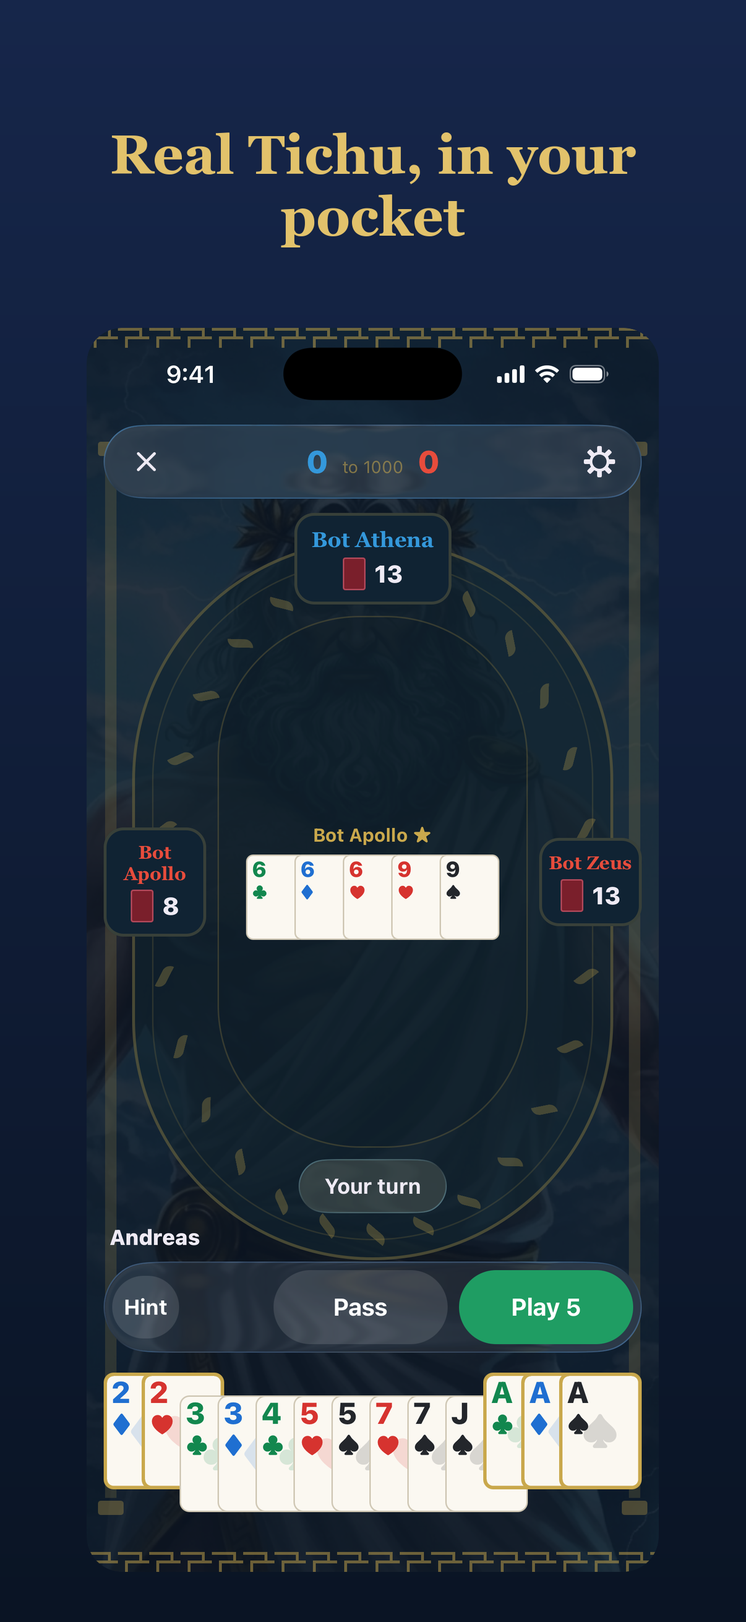
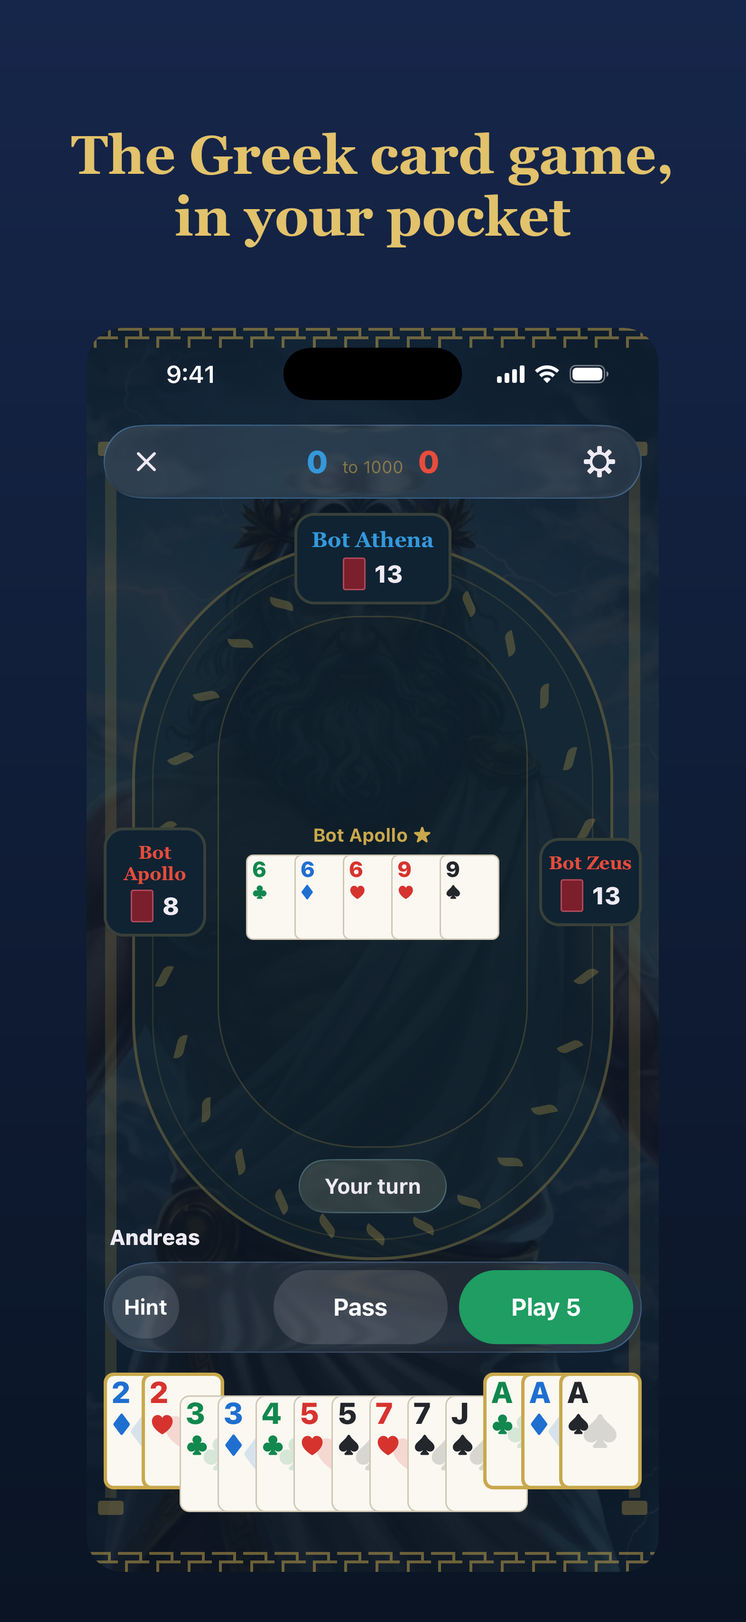
Privacy policy for the App Store, 12-month log retention, final listing name
- Privacy and contact pages (EN + EL) name Titsu and the operator, list Sign in
  with Apple, Expo and DigitalOcean, the iOS Keychain, retention, and
  support@aegist.dev
- Server deletes connection/request logs and clears IPs on records older than
  12 months (hourly; nothing in production is that old yet), with a test
- Listing name "Titsu: Greek Card Game"; hero caption no longer says "Real Tichu";
  redundant "greek" keyword replaced; frames re-rendered

Changed region(s): [[0.092, 0.0618, 0.767, 0.1545], [0.8284, 0.0927, 0.8897, 0.1236], [0.6443, 0.0618, 0.675, 0.0927]]

diff --git a/packages/client/src/i18n.ts b/packages/client/src/i18n.ts
@@ -85,28 +85,33 @@ const translations: Record<Lang, Record<string, string>> = {
 
     // ─── Legal ───────────────────────────────────────────────
     'legal.back': 'Back',
-    'legal.updated': 'Last updated: May 11, 2026',
+    'legal.updated': 'Last updated: October 31, 2026',
     'legal.privacy.short': 'Privacy',
     'legal.terms.short': 'Terms',
     'legal.contact.short': 'Contact',
     'legal.privacy.title': 'Privacy Policy',
     'legal.terms.title': 'Terms & Fair Play',
     'legal.contact.title': 'Contact & Support',
-    'legal.privacy.intro': 'Cyprus is an online Tichu game. We collect only the information needed to run accounts, games, matchmaking, support, security, and basic game statistics.',
+    'legal.privacy.intro': 'Titsu (the iPhone app) and aegist.dev (the website) are an online Tichu card game run by Demetris Chrysostomou. We collect only the information needed to run accounts, games, matchmaking, support, security, and basic game statistics. We do not sell player data and do not use it for advertising or tracking.',
     'legal.privacy.collectTitle': 'Information We Collect',
     'legal.privacy.collect.0': 'Account details such as username, display name, email address, password login method, avatar, language, and friends.',
     'legal.privacy.collect.1': 'Game information such as room codes, game events, scores, bot reports, rankings, and leaderboard stats.',
     'legal.privacy.collect.2': 'Connection and security information such as IP address, user agent, socket connection records, request logs, and timestamps.',
-    'legal.privacy.collect.3': 'Session tokens stored in secure cookies for signed-in users and local browser storage for reconnecting to active games.',
+    'legal.privacy.collect.3': 'Session tokens: on the website in secure cookies, with local browser storage for reconnecting to active games; on iPhone in the iOS Keychain, with your language and reconnect details in the app\'s local storage.',
+    'legal.privacy.collect.4': 'If you use Sign in with Apple: the anonymous Apple user identifier, plus your name and email address if you choose to share them (Apple may give us a private relay address).',
+    'legal.privacy.collect.5': 'When the iPhone app checks for updates, Expo receives a random install identifier and basic device and app version information.',
     'legal.privacy.useTitle': 'How We Use It',
     'legal.privacy.use.0': 'To create accounts, keep players signed in, reconnect games, and support guest play.',
     'legal.privacy.use.1': 'To run multiplayer rooms, matchmaking, friends, invitations, spectating, scoring, and leaderboards.',
     'legal.privacy.use.2': 'To prevent abuse, debug issues, investigate bot reports, and keep the service reliable.',
     'legal.privacy.deletionTitle': 'Account Deletion',
-    'legal.privacy.deletion': 'Deleting your account removes your login, profile, friends, and account settings. Some game records, scores, reports, security logs, and anti-abuse records may be retained so games stay fair and the service can be protected.',
+    'legal.privacy.deletion': 'You can delete your account at any time: in the iPhone app, open Profile (tap your name in the lobby) and choose Delete Account; on the website, use Delete Account in your profile. Deleting removes your login, profile, friends, sessions, and account settings immediately. Game results, scores, and reports may be kept without your account details so leaderboards and fair-play checks stay correct. You can also email support@aegist.dev to request deletion or a copy of your data.',
+    'legal.privacy.retentionTitle': 'How Long We Keep It',
+    'legal.privacy.retention': 'Account data is kept until you delete your account. Connection and request logs, which include IP addresses, are deleted after 12 months, and IP addresses on older game records are cleared at the same point. Server diagnostic logs are deleted after 7 days. Game results are kept for leaderboards and statistics.',
     'legal.privacy.thirdTitle': 'Third Parties',
-    'legal.privacy.third': 'Google Sign-In may be used if enabled. Password reset emails may be sent through an email provider. We do not sell player data.',
-    'legal.terms.intro': 'By using Cyprus, you agree to play fairly, respect other players, and avoid behavior that damages the game or service.',
+    'legal.privacy.third': 'We use these service providers: Apple (Sign in with Apple), Google (Google Sign-In on the website, if enabled), Expo (iPhone app update delivery), DigitalOcean (server hosting), and an email provider for password reset emails, if enabled. They only receive what they need to provide their service. We do not sell player data or share it for advertising.',
+    'legal.privacy.contact': 'Questions or requests about your data: support@aegist.dev',
+    'legal.terms.intro': 'By using Titsu or aegist.dev, you agree to play fairly, respect other players, and avoid behavior that damages the game or service.',
     'legal.terms.fairTitle': 'Fair Play',
     'legal.terms.fair.0': 'Do not cheat, coordinate through spectator information, exploit bugs, automate play, or abuse matchmaking.',
     'legal.terms.fair.1': 'Do not harass players or use offensive names, messages, or profile information.',
@@ -115,8 +120,9 @@ const translations: Record<Lang, Record<string, string>> = {
     'legal.terms.accounts.0': 'You are responsible for keeping your account secure.',
     'legal.terms.accounts.1': 'We may remove accounts, names, stats, rooms, or access if needed for safety, abuse prevention, or service integrity.',
     'legal.terms.serviceTitle': 'Service Availability',
-    'legal.terms.service': 'Cyprus is provided as-is. Games may be interrupted by updates, bugs, network issues, or maintenance. We try to preserve active games where possible, but cannot guarantee uninterrupted play.',
-    'legal.contact.intro': 'For support, account questions, data requests, bug reports, or fair-play concerns, contact the project through the GitHub repository.',
+    'legal.terms.service': 'The game is provided as-is. Games may be interrupted by updates, bugs, network issues, or maintenance. We try to preserve active games where possible, but cannot guarantee uninterrupted play.',
+    'legal.contact.intro': 'For support, account questions, data requests, bug reports, or fair-play concerns, email us. Titsu and aegist.dev are run by Demetris Chrysostomou.',
+    'legal.contact.github': 'Bug reports are also welcome on GitHub:',
     'legal.contact.includeTitle': 'What To Include',
     'legal.contact.include.0': 'Your username or display name.',
     'legal.contact.include.1': 'The room code or approximate time of the issue, if it happened during a game.',
@@ -549,28 +555,33 @@ const translations: Record<Lang, Record<string, string>> = {
 
     // ─── Legal ───────────────────────────────────────────────
     'legal.back': 'Πίσω',
-    'legal.updated': 'Τελευταία ενημέρωση: 11 Μαΐου 2026',
+    'legal.updated': 'Τελευταία ενημέρωση: 31 Οκτωβρίου 2026',
     'legal.privacy.short': 'Απόρρητο',
     'legal.terms.short': 'Όροι',
     'legal.contact.short': 'Επικοινωνία',
     'legal.privacy.title': 'Πολιτική Απορρήτου',
     'legal.terms.title': 'Όροι & Δίκαιο Παιχνίδι',
     'legal.contact.title': 'Επικοινωνία & Υποστήριξη',
-    'legal.privacy.intro': 'Το Cyprus είναι online παιχνίδι Tichu. Συλλέγουμε μόνο τις πληροφορίες που χρειάζονται για λογαριασμούς, παιχνίδια, matchmaking, υποστήριξη, ασφάλεια και βασικά στατιστικά παιχνιδιού.',
+    'legal.privacy.intro': 'Το Titsu (η εφαρμογή για iPhone) και το aegist.dev (ο ιστότοπος) είναι ένα online παιχνίδι Tichu που λειτουργεί ο Demetris Chrysostomou. Συλλέγουμε μόνο τις πληροφορίες που χρειάζονται για λογαριασμούς, παιχνίδια, matchmaking, υποστήριξη, ασφάλεια και βασικά στατιστικά παιχνιδιού. Δεν πουλάμε δεδομένα παικτών και δεν τα χρησιμοποιούμε για διαφημίσεις ή παρακολούθηση.',
     'legal.privacy.collectTitle': 'Πληροφορίες που συλλέγουμε',
     'legal.privacy.collect.0': 'Στοιχεία λογαριασμού όπως όνομα χρήστη, εμφανιζόμενο όνομα, email, τρόπος σύνδεσης, avatar, γλώσσα και φίλοι.',
     'legal.privacy.collect.1': 'Πληροφορίες παιχνιδιού όπως κωδικοί δωματίων, γεγονότα παιχνιδιού, σκορ, αναφορές bot, κατατάξεις και στατιστικά leaderboard.',
     'legal.privacy.collect.2': 'Πληροφορίες σύνδεσης και ασφάλειας όπως διεύθυνση IP, user agent, εγγραφές socket, request logs και χρονικές σημάνσεις.',
-    'legal.privacy.collect.3': 'Session tokens σε ασφαλή cookies για συνδεδεμένους χρήστες και τοπική αποθήκευση browser για επανασύνδεση σε ενεργά παιχνίδια.',
+    'legal.privacy.collect.3': 'Session tokens: στον ιστότοπο σε ασφαλή cookies, με τοπική αποθήκευση browser για επανασύνδεση σε ενεργά παιχνίδια· στο iPhone στο iOS Keychain, με τη γλώσσα και τα στοιχεία επανασύνδεσης στην τοπική αποθήκευση της εφαρμογής.',
+    'legal.privacy.collect.4': 'Αν χρησιμοποιείς Σύνδεση με Apple: το ανώνυμο αναγνωριστικό χρήστη της Apple και, αν επιλέξεις να τα μοιραστείς, το όνομα και το email σου (η Apple μπορεί να μας δώσει διεύθυνση αναμετάδοσης).',
+    'legal.privacy.collect.5': 'Όταν η εφαρμογή iPhone ελέγχει για ενημερώσεις, η Expo λαμβάνει ένα τυχαίο αναγνωριστικό εγκατάστασης και βασικές πληροφορίες συσκευής και έκδοσης.',
     'legal.privacy.useTitle': 'Πώς τα χρησιμοποιούμε',
     'legal.privacy.use.0': 'Για δημιουργία λογαριασμών, σύνδεση παικτών, επανασύνδεση σε παιχνίδια και υποστήριξη guest play.',
     'legal.privacy.use.1': 'Για multiplayer δωμάτια, matchmaking, φίλους, προσκλήσεις, spectating, σκορ και leaderboard.',
     'legal.privacy.use.2': 'Για αποτροπή κατάχρησης, debugging, διερεύνηση αναφορών bot και αξιοπιστία της υπηρεσίας.',
     'legal.privacy.deletionTitle': 'Διαγραφή λογαριασμού',
-    'legal.privacy.deletion': 'Η διαγραφή λογαριασμού αφαιρεί τη σύνδεση, το προφίλ, τους φίλους και τις ρυθμίσεις λογαριασμού σου. Κάποια αρχεία παιχνιδιών, σκορ, αναφορές, logs ασφάλειας και αρχεία κατάχρησης μπορεί να διατηρηθούν ώστε τα παιχνίδια να παραμένουν δίκαια και η υπηρεσία προστατευμένη.',
+    'legal.privacy.deletion': 'Μπορείς να διαγράψεις τον λογαριασμό σου όποτε θέλεις: στην εφαρμογή iPhone, άνοιξε το Προφίλ (πάτησε το όνομά σου στο lobby) και επίλεξε Διαγραφή Λογαριασμού· στον ιστότοπο, χρησιμοποίησε τη Διαγραφή Λογαριασμού στο προφίλ σου. Η διαγραφή αφαιρεί αμέσως τη σύνδεση, το προφίλ, τους φίλους, τις συνεδρίες και τις ρυθμίσεις σου. Αποτελέσματα παιχνιδιών, σκορ και αναφορές μπορεί να διατηρηθούν χωρίς τα στοιχεία του λογαριασμού σου, ώστε τα leaderboard και οι έλεγχοι δίκαιου παιχνιδιού να μένουν σωστά. Μπορείς επίσης να ζητήσεις διαγραφή ή αντίγραφο των δεδομένων σου στο support@aegist.dev.',
+    'legal.privacy.retentionTitle': 'Πόσο καιρό τα κρατάμε',
+    'legal.privacy.retention': 'Τα στοιχεία του λογαριασμού διατηρούνται μέχρι να τον διαγράψεις. Τα αρχεία συνδέσεων και αιτημάτων, που περιέχουν διευθύνσεις IP, διαγράφονται μετά από 12 μήνες, και τότε σβήνονται και οι διευθύνσεις IP από τα παλαιότερα αρχεία παιχνιδιών. Τα διαγνωστικά logs του διακομιστή διαγράφονται μετά από 7 ημέρες. Τα αποτελέσματα παιχνιδιών διατηρούνται για τα leaderboard και τα στατιστικά.',
     'legal.privacy.thirdTitle': 'Τρίτες υπηρεσίες',
-    'legal.privacy.third': 'Μπορεί να χρησιμοποιείται Google Sign-In αν είναι ενεργό. Τα emails επαναφοράς κωδικού μπορεί να στέλνονται μέσω παρόχου email. Δεν πουλάμε δεδομένα παικτών.',
-    'legal.terms.intro': 'Χρησιμοποιώντας το Cyprus, συμφωνείς να παίζεις δίκαια, να σέβεσαι τους άλλους παίκτες και να αποφεύγεις συμπεριφορές που βλάπτουν το παιχνίδι ή την υπηρεσία.',
+    'legal.privacy.third': 'Χρησιμοποιούμε τους εξής παρόχους: Apple (Σύνδεση με Apple), Google (Google Sign-In στον ιστότοπο, αν είναι ενεργό), Expo (ενημερώσεις της εφαρμογής iPhone), DigitalOcean (φιλοξενία διακομιστή) και πάροχο email για emails επαναφοράς κωδικού, αν είναι ενεργά. Λαμβάνουν μόνο ό,τι χρειάζονται για την υπηρεσία τους. Δεν πουλάμε δεδομένα παικτών ούτε τα μοιραζόμαστε για διαφημίσεις.',
+    'legal.privacy.contact': 'Ερωτήσεις ή αιτήματα για τα δεδομένα σου: support@aegist.dev',
+    'legal.terms.intro': 'Χρησιμοποιώντας το Titsu ή το aegist.dev, συμφωνείς να παίζεις δίκαια, να σέβεσαι τους άλλους παίκτες και να αποφεύγεις συμπεριφορές που βλάπτουν το παιχνίδι ή την υπηρεσία.',
     'legal.terms.fairTitle': 'Δίκαιο παιχνίδι',
     'legal.terms.fair.0': 'Μην κλέβεις, μην χρησιμοποιείς πληροφορίες θεατή για συνεννόηση, μην εκμεταλλεύεσαι bugs, μην αυτοματοποιείς το παιχνίδι και μην κάνεις κατάχρηση του matchmaking.',
     'legal.terms.fair.1': 'Μην παρενοχλείς παίκτες και μην χρησιμοποιείς προσβλητικά ονόματα, μηνύματα ή στοιχεία προφίλ.',
@@ -579,8 +590,9 @@ const translations: Record<Lang, Record<string, string>> = {
     'legal.terms.accounts.0': 'Είσαι υπεύθυνος για την ασφάλεια του λογαριασμού σου.',
     'legal.terms.accounts.1': 'Μπορεί να αφαιρέσουμε λογαριασμούς, ονόματα, στατιστικά, δωμάτια ή πρόσβαση όταν χρειάζεται για ασφάλεια, αποτροπή κατάχρησης ή ακεραιότητα της υπηρεσίας.',
     'legal.terms.serviceTitle': 'Διαθεσιμότητα υπηρεσίας',
-    'legal.terms.service': 'Το Cyprus παρέχεται ως έχει. Τα παιχνίδια μπορεί να διακοπούν από ενημερώσεις, bugs, προβλήματα δικτύου ή συντήρηση. Προσπαθούμε να διατηρούμε τα ενεργά παιχνίδια όπου είναι δυνατό, αλλά δεν μπορούμε να εγγυηθούμε αδιάκοπο παιχνίδι.',
-    'legal.contact.intro': 'Για υποστήριξη, ερωτήσεις λογαριασμού, αιτήματα δεδομένων, αναφορές σφαλμάτων ή θέματα fair play, επικοινώνησε με το project μέσω του GitHub repository.',
+    'legal.terms.service': 'Το παιχνίδι παρέχεται ως έχει. Τα παιχνίδια μπορεί να διακοπούν από ενημερώσεις, bugs, προβλήματα δικτύου ή συντήρηση. Προσπαθούμε να διατηρούμε τα ενεργά παιχνίδια όπου είναι δυνατό, αλλά δεν μπορούμε να εγγυηθούμε αδιάκοπο παιχνίδι.',
+    'legal.contact.intro': 'Για υποστήριξη, ερωτήσεις λογαριασμού, αιτήματα δεδομένων, αναφορές σφαλμάτων ή θέματα δίκαιου παιχνιδιού, στείλε μας email. Το Titsu και το aegist.dev τα λειτουργεί ο Demetris Chrysostomou.',
+    'legal.contact.github': 'Αναφορές σφαλμάτων δεχόμαστε και στο GitHub:',
     'legal.contact.includeTitle': 'Τι να συμπεριλάβεις',
     'legal.contact.include.0': 'Το όνομα χρήστη ή το εμφανιζόμενο όνομά σου.',
     'legal.contact.include.1': 'Τον κωδικό δωματίου ή περίπου την ώρα του προβλήματος, αν συνέβη μέσα σε παιχνίδι.',

diff --git a/packages/server/src/__tests__/Retention.test.ts b/packages/server/src/__tests__/Retention.test.ts
@@ -1,0 +1,58 @@
+import { mkdtempSync, rmSync } from 'node:fs';
+import { tmpdir } from 'node:os';
+import { join } from 'node:path';
+import BetterSqlite3 from 'better-sqlite3';
+import { afterEach, beforeEach, describe, expect, it } from 'vitest';
+import { TrackerDB } from '../Database.js';
+
+describe('privacy retention (pruneOldPersonalData)', () => {
+  let dir: string;
+  let path: string;
+  let db: TrackerDB;
+  let raw: BetterSqlite3.Database;
+
+  beforeEach(() => {
+    dir = mkdtempSync(join(tmpdir(), 'cyprus-retention-'));
+    path = join(dir, 'retention.db');
+    db = new TrackerDB(path);
+    raw = new BetterSqlite3(path);
+  });
+
+  afterEach(() => {
+    raw.close();
+    db.close();
+    rmSync(dir, { recursive: true, force: true });
+  });
+
+  const count = (sql: string) => (raw.prepare(sql).get() as { c: number }).c;
+
+  it('deletes old connection and request logs and clears old IPs, keeping recent data and results', () => {
+    raw.prepare(`INSERT INTO connections (socket_id, ip, connected_at) VALUES ('old', '1.1.1.1', datetime('now', '-13 months'))`).run();
+    raw.prepare(`INSERT INTO connections (socket_id, ip, connected_at) VALUES ('new', '2.2.2.2', datetime('now', '-11 months'))`).run();
+    raw.prepare(`INSERT INTO http_requests (path, ip, created_at) VALUES ('/old', '1.1.1.1', datetime('now', '-13 months'))`).run();
+    raw.prepare(`INSERT INTO http_requests (path, ip, created_at) VALUES ('/new', '2.2.2.2', datetime('now'))`).run();
+    raw.prepare(`INSERT INTO players (nickname, ip, last_seen) VALUES ('Old', '1.1.1.1', datetime('now', '-13 months'))`).run();
+    raw.prepare(`INSERT INTO players (nickname, ip, last_seen) VALUES ('New', '2.2.2.2', datetime('now'))`).run();
+    const oldGame = raw.prepare(`INSERT INTO games (room_code, started_at, winner_team) VALUES ('OLD', datetime('now', '-13 months'), 'Team A')`).run().lastInsertRowid;
+    const newGame = raw.prepare(`INSERT INTO games (room_code, started_at, winner_team) VALUES ('NEW', datetime('now'), 'Team B')`).run().lastInsertRowid;
+    raw.prepare(`INSERT INTO game_players (game_id, nickname, position, ip) VALUES (?, 'Old', 0, '1.1.1.1')`).run(oldGame);
+    raw.prepare(`INSERT INTO game_players (game_id, nickname, position, ip) VALUES (?, 'New', 0, '2.2.2.2')`).run(newGame);
+
+    const result = db.pruneOldPersonalData(12);
+
+    expect(result).toEqual({ connections: 1, requests: 1, anonymized: 2 });
+    expect(count(`SELECT COUNT(*) c FROM connections WHERE socket_id = 'new'`)).toBe(1);
+    expect(count(`SELECT COUNT(*) c FROM connections`)).toBe(1);
+    expect(count(`SELECT COUNT(*) c FROM http_requests WHERE path = '/new'`)).toBe(1);
+    expect(count(`SELECT COUNT(*) c FROM http_requests`)).toBe(1);
+    expect(count(`SELECT COUNT(*) c FROM players WHERE ip IS NULL`)).toBe(1);
+    expect(count(`SELECT COUNT(*) c FROM players WHERE nickname = 'New' AND ip = '2.2.2.2'`)).toBe(1);
+    expect(count(`SELECT COUNT(*) c FROM game_players WHERE nickname = 'Old' AND ip IS NULL`)).toBe(1);
+    expect(count(`SELECT COUNT(*) c FROM game_players WHERE nickname = 'New' AND ip = '2.2.2.2'`)).toBe(1);
+    // Game results stay for the leaderboard.
+    expect(count(`SELECT COUNT(*) c FROM games`)).toBe(2);
+
+    // Running it again changes nothing.
+    expect(db.pruneOldPersonalData(12)).toEqual({ connections: 0, requests: 0, anonymized: 0 });
+  });
+});

diff --git a/packages/server/src/Database.ts b/packages/server/src/Database.ts
@@ -1094,6 +1094,27 @@ export class TrackerDB {
     this.db.prepare(`DELETE FROM server_logs WHERE created_at < datetime('now', '-' || ? || ' days')`).run(daysToKeep);
   }
 
+  /**
+   * Retention promised in the privacy policy: connection and request logs (which hold IP
+   * addresses) are deleted after `months`, and IP addresses on older player and game records
+   * are cleared. Game results themselves stay for the leaderboard and statistics.
+   */
+  pruneOldPersonalData(months: number = 12): { connections: number; requests: number; anonymized: number } {
+    const age = `-${Math.max(1, Math.floor(months))} months`;
+    return this.db.transaction(() => {
+      const connections = this.db.prepare(`DELETE FROM connections WHERE connected_at < datetime('now', ?)`).run(age).changes;
+      const requests = this.db.prepare(`DELETE FROM http_requests WHERE created_at < datetime('now', ?)`).run(age).changes;
+      const players = this.db.prepare(
+        `UPDATE players SET ip = NULL WHERE ip IS NOT NULL AND last_seen < datetime('now', ?)`
+      ).run(age).changes;
+      const gamePlayers = this.db.prepare(
+        `UPDATE game_players SET ip = NULL WHERE ip IS NOT NULL
+           AND game_id IN (SELECT id FROM games WHERE started_at < datetime('now', ?))`
+      ).run(age).changes;
+      return { connections, requests, anonymized: players + gamePlayers };
+    })();
+  }
+
   closeAbandonedGames(inactiveMinutes: number = 120): number {
     const result = this.db.prepare(`
       UPDATE games SET ended_at = datetime('now'), winner_team = 'Abandoned'

diff --git a/packages/client/src/components/LegalPages.tsx b/packages/client/src/components/LegalPages.tsx
@@ -1,5 +1,7 @@
 import { useT } from '../i18n.js';
 
+const SUPPORT_EMAIL = 'support@aegist.dev';
+
 export type LegalPageType = 'privacy' | 'terms' | 'contact';
 
 type LegalPagesProps = {
@@ -39,6 +41,8 @@ function PrivacyPolicy() {
         <li>{t('legal.privacy.collect.1')}</li>
         <li>{t('legal.privacy.collect.2')}</li>
         <li>{t('legal.privacy.collect.3')}</li>
+        <li>{t('legal.privacy.collect.4')}</li>
+        <li>{t('legal.privacy.collect.5')}</li>
       </ul>
 
       <h2>{t('legal.privacy.useTitle')}</h2>
@@ -51,8 +55,13 @@ function PrivacyPolicy() {
       <h2>{t('legal.privacy.deletionTitle')}</h2>
       <p>{t('legal.privacy.deletion')}</p>
 
+      <h2>{t('legal.privacy.retentionTitle')}</h2>
+      <p>{t('legal.privacy.retention')}</p>
+
       <h2>{t('legal.privacy.thirdTitle')}</h2>
       <p>{t('legal.privacy.third')}</p>
+
+      <p>{t('legal.privacy.contact')}</p>
     </div>
   );
 }
@@ -89,6 +98,11 @@ function ContactSupport() {
       <p>{t('legal.contact.intro')}</p>
 
       <p>
+        <a href={`mailto:${SUPPORT_EMAIL}`}>{SUPPORT_EMAIL}</a>
+      </p>
+
+      <p>
+        {t('legal.contact.github')}{' '}
         <a href="https://github.com/Dremix10/cyprus" target="_blank" rel="noreferrer">
           github.com/Dremix10/cyprus
         </a>

diff --git a/packages/server/src/index.ts b/packages/server/src/index.ts
@@ -37,6 +37,11 @@ const sessionCleanupInterval = setInterval(() => {
   db.cleanExpiredSessions();
   const closed = db.closeAbandonedGames(120);
   if (closed > 0) console.log(`Closed ${closed} abandoned game(s)`);
+  // Privacy policy retention: IP-bearing logs older than 12 months.
+  const pruned = db.pruneOldPersonalData(12);
+  if (pruned.connections + pruned.requests + pruned.anonymized > 0) {
+    console.log(`Retention: removed ${pruned.connections} connection and ${pruned.requests} request log(s), cleared ${pruned.anonymized} old IP(s)`);
+  }
 }, 60 * 60_000);
 sessionCleanupInterval.unref();
 

diff --git a/apps/mobile/app-store/README.md b/apps/mobile/app-store/README.md
@@ -31,13 +31,13 @@ privacy, age rating and version. Phase 2 (2026-10-31) captured the screenshots f
 | ✅ | In-app account deletion (5.1.1(v)) | Done: Profile > Delete Account > confirmation sheet (password only for password accounts). Commit `7d67861`. |
 | ✅ | Server: deleting a user who reported a bot play | Fixed in `7781dc4` (reports removed in the same transaction; 500 instead of a hang). |
 | ✅ / 🧑 | Production server up to date | `aegist.dev/health` shows `startedAt 2026-10-31T02:26Z`, after `7781dc4`. Confirm that deploy included the current `main` (Quick game, deletion fix). |
-| 🧑 | **Support contact:** `aegist.dev/contact` only links the GitHub repo. Add a support email (for example `support@aegist.dev` via Spaceship forwarding). | Still open (live page checked 2026-10-31) |
-| 🧑 | **Privacy policy gaps:** no mention of Titsu, Sign in with Apple, Expo, Keychain, retention or operator name. | Still open: live page still says "Last updated: May 11, 2026". Drop-in EN + EL text in `privacy/privacy-policy-update.md`. |
+| 🧑 | **Support contact:** `support@aegist.dev` is on the contact and privacy pages (2026-10-31). The owner turns on Spaceship email forwarding to their inbox; until then mail to it bounces. | Forwarding: owner |
+| ✅ | **Privacy policy:** names Titsu and the operator (Demetris Chrysostomou), Sign in with Apple, Expo, DigitalOcean, Keychain, 12-month log retention (enforced by `pruneOldPersonalData`) and the support email. | Done 2026-10-31 (EN + EL). |
 | ✅ | Greek in-game screens, tutorial "a bold call" | Done in `a77e099` / `7d67861`. |
 
 ## Decisions for you
 
-1. **Name: does it include "Tichu"?** Proposed `Titsu: Tichu Card Game` (best for search). Tichu is
+1. **Name (decided 2026-10-31): `Titsu: Greek Card Game`** in en-US/en-GB, `Titsu: Τίτσου Online` in el. The hero caption no longer says "Real Tichu". Keywords leave out `tichu` (Guideline 2.3.7: no trademarked terms in keywords). The name can change with any later version. Original note: proposed `Titsu: Tichu Card Game` (best for search). Tichu is
    Fata Morgana's game, and a licensed "Tichu" app is already on the store, so the name carries some
    trademark-complaint risk. The description ends with a "not affiliated" line. Safer alternatives:
    `Titsu: Greek Card Game` (en) and `Titsu: Τίτσου Online` (el, already proposed). With the safer

diff --git a/apps/mobile/app-store/privacy/privacy-policy-update.md b/apps/mobile/app-store/privacy/privacy-policy-update.md
@@ -1,3 +1,5 @@
+> **Applied 2026-10-31** to `packages/client/src/i18n.ts` and `LegalPages.tsx` (operator Demetris Chrysostomou, support@aegist.dev, 12-month retention). Kept below for reference.
+
 # Privacy policy: what to change before App Review
 
 Live page: https://aegist.dev/privacy (from `packages/client/src/components/LegalPages.tsx` and the
